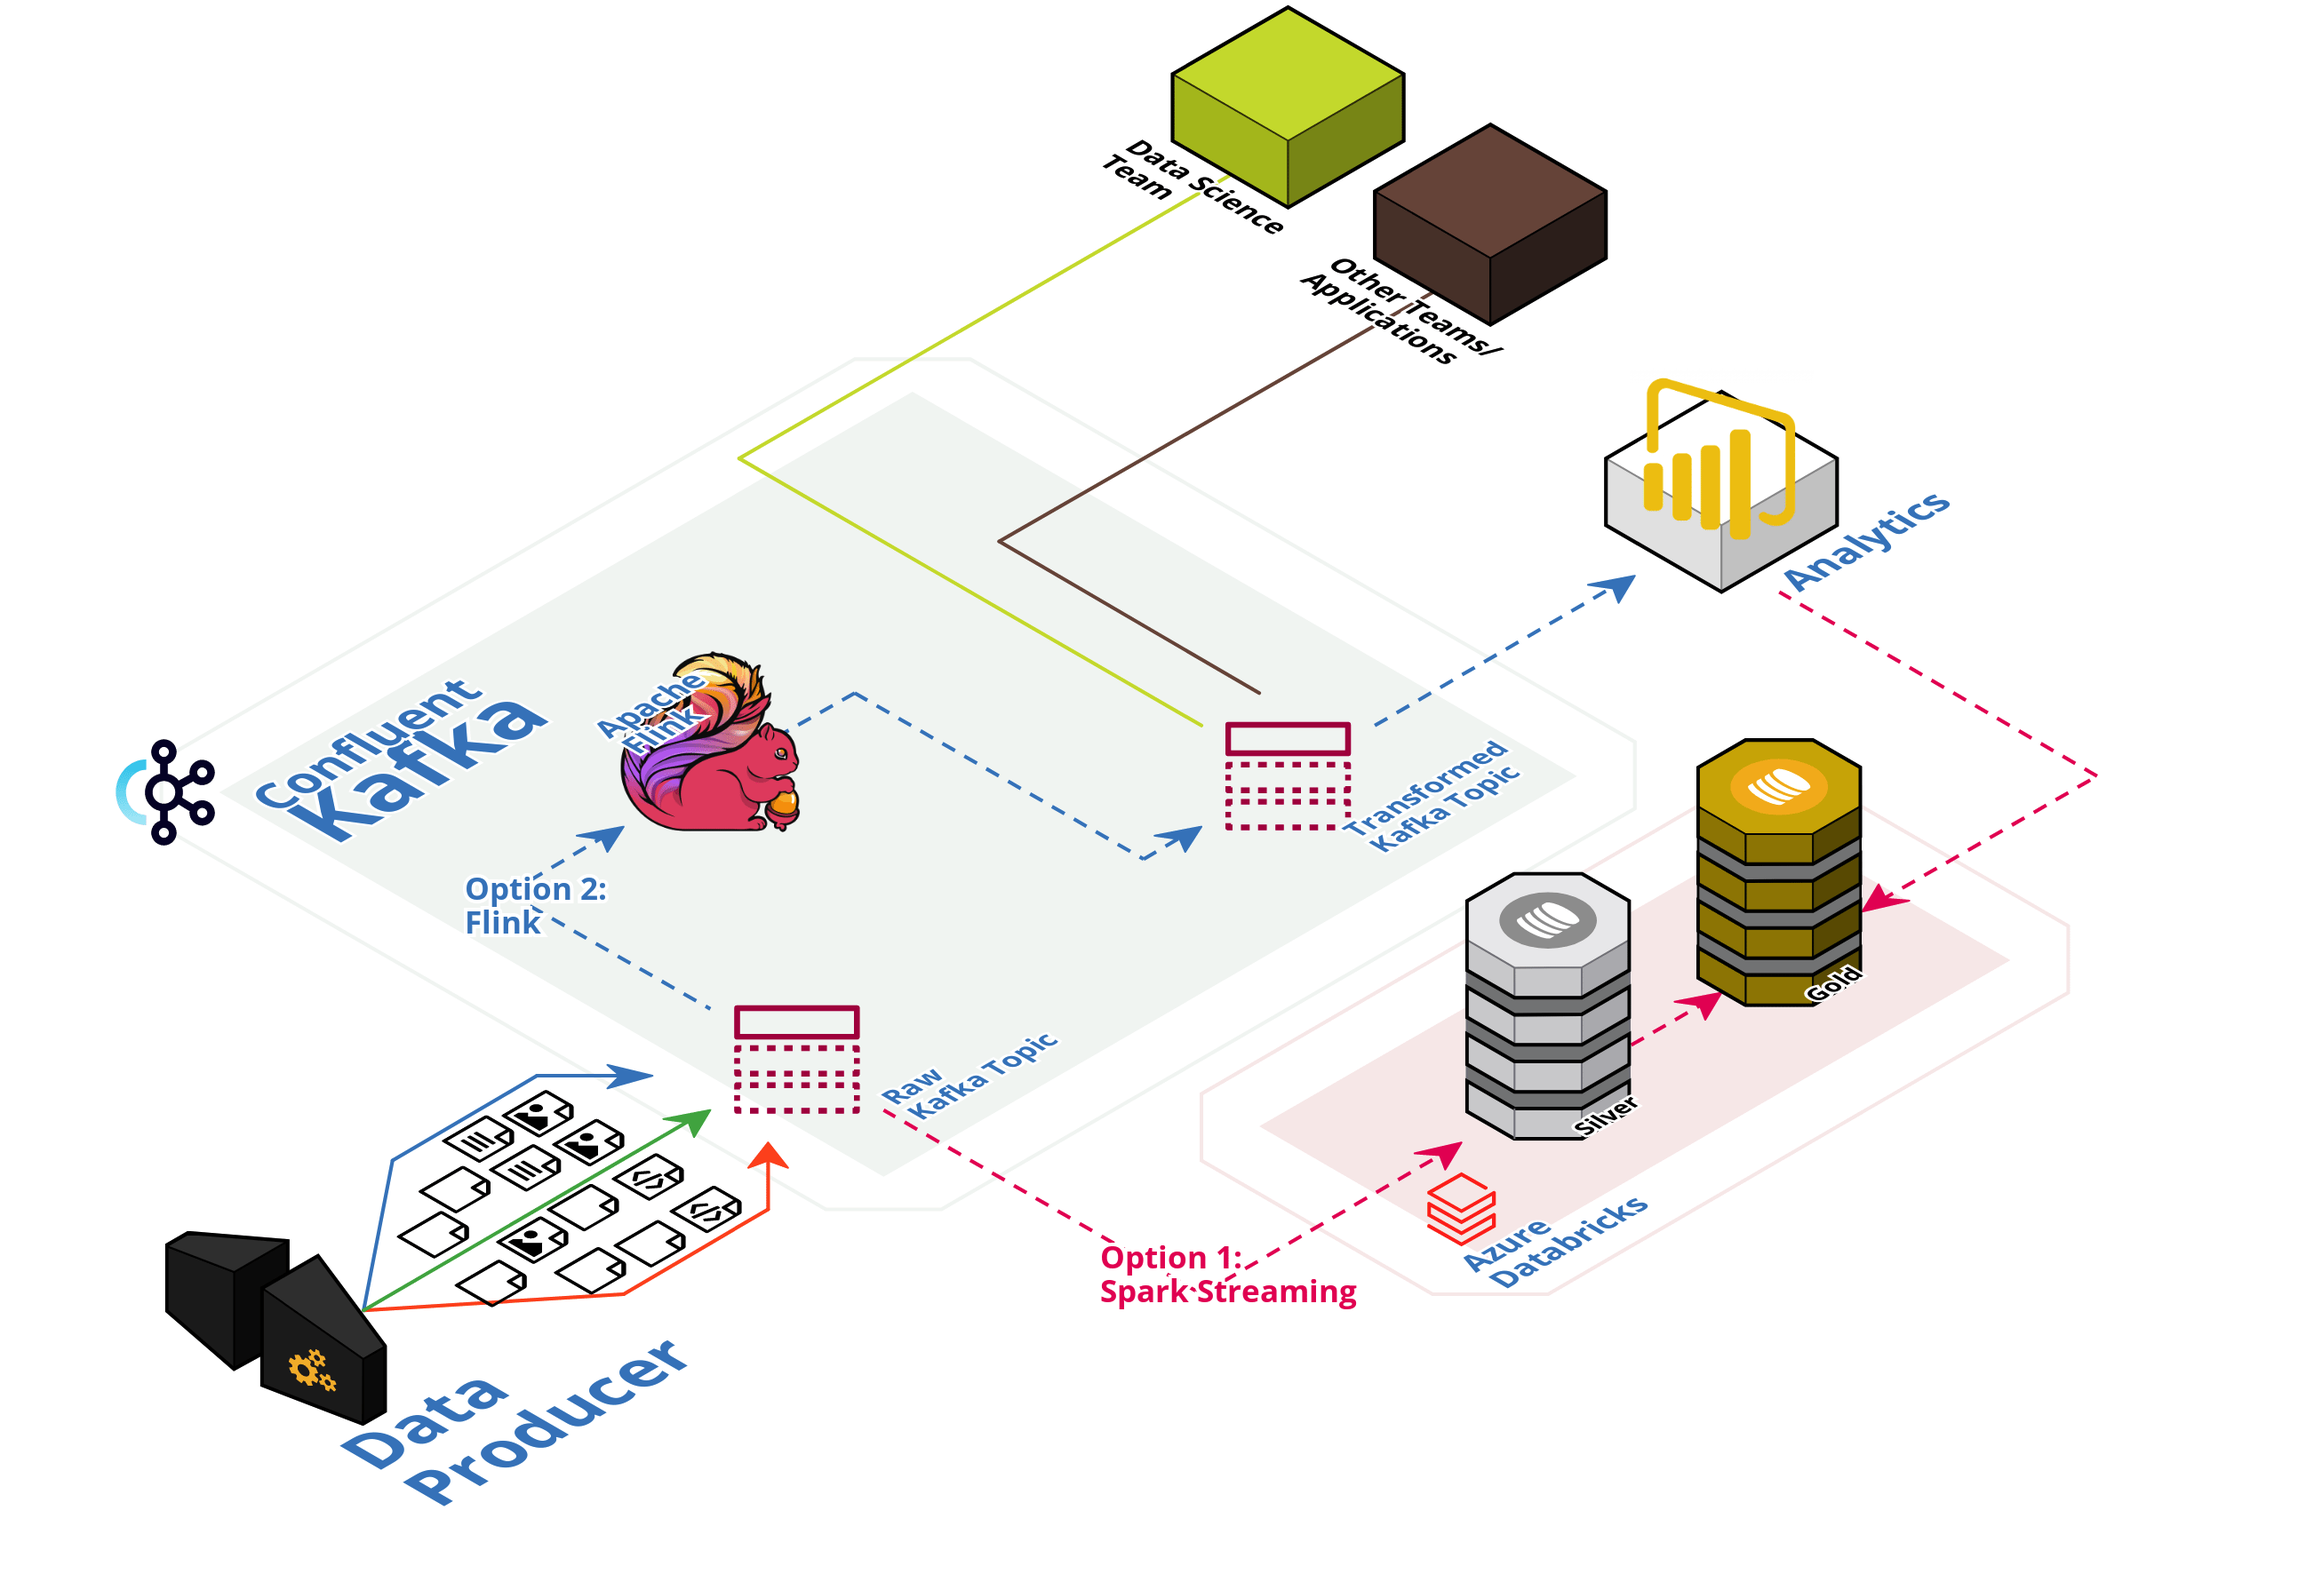
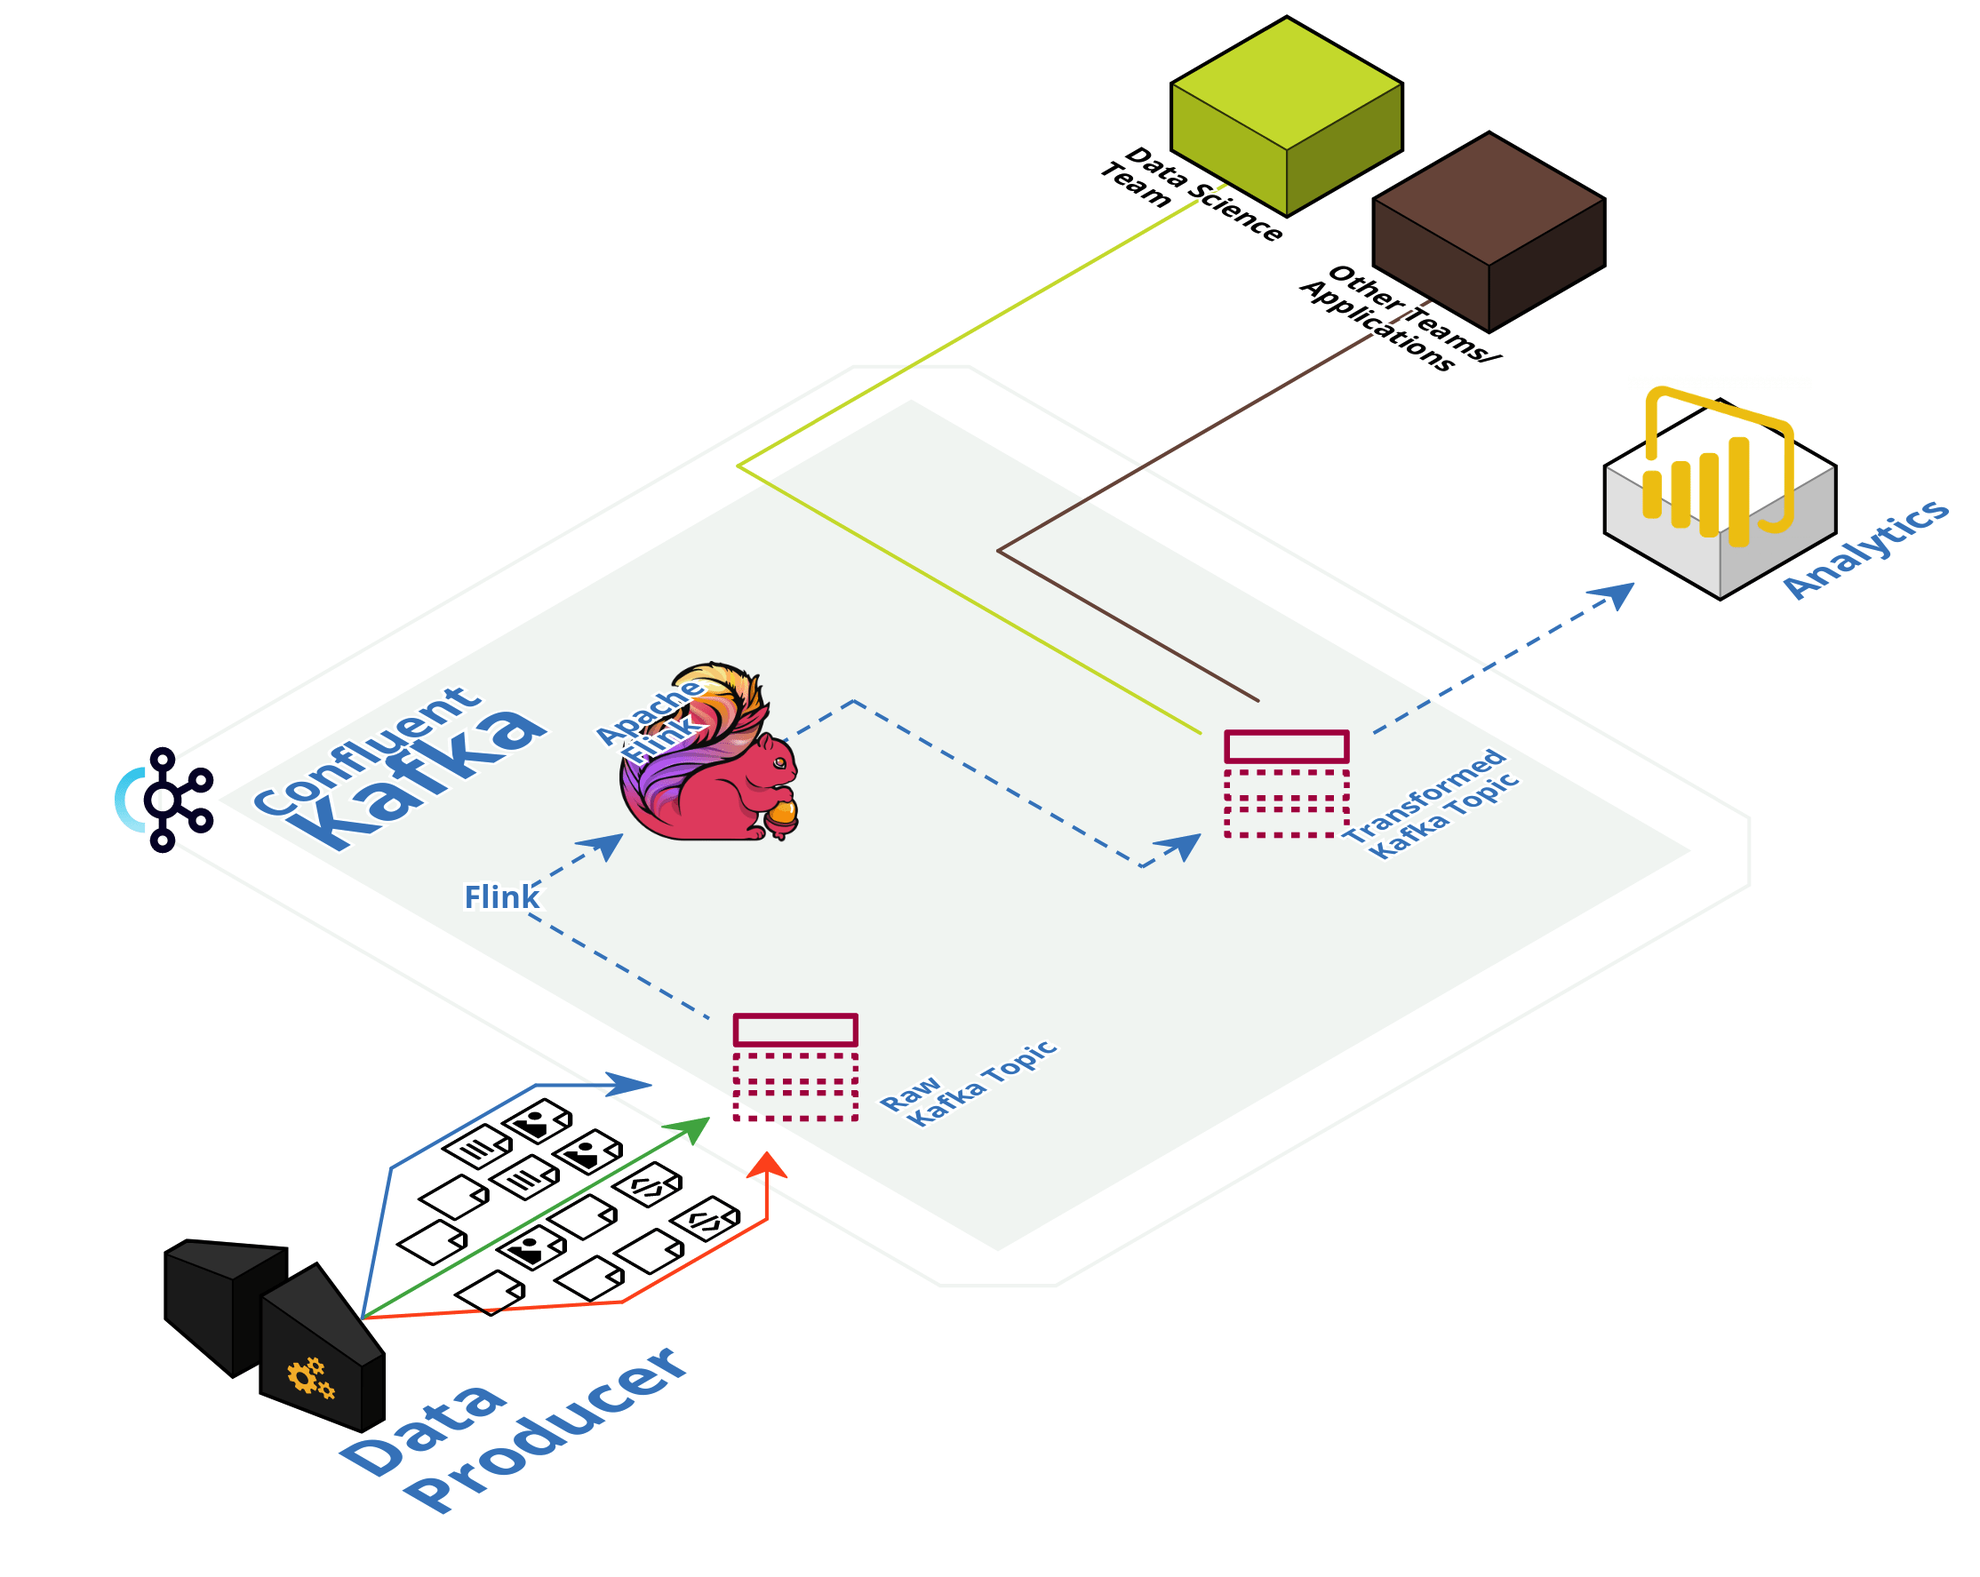
added new image

diff --git a/README.md b/README.md
@@ -30,8 +30,12 @@ This repo has been created by:
 
 
 ## Design
+The Demo will be using Flink Streaming:
 [![infrastructure](./docs/infrastructure.png)](https://app.cloudcraft.co/view/a1e84540-b924-4a33-b1c9-f8044601c945?key=3m40jn0enpfd2t90&interactive=true&embed=true)
 
+
+Another possibility can be using Spark Streaming and Databricks, the code can be found kafka_spark_streaming folder:
+[![infrastructure](./docs/infrastructure_option_2.png)](https://app.cloudcraft.co/view/a1e84540-b924-4a33-b1c9-f8044601c945?key=3m40jn0enpfd2t90&interactive=true&embed=true)
 
 ## Slides
 [![Google Slides Badge](https://img.shields.io/badge/Google%20Slides-FBBC04?logo=googleslides&logoColor=000&style=for-the-badge)](https://docs.google.com/presentation/d/1lTWvNwJgJphgH6YUYEL9AiE-nlDidsqMNJF_MiJryl4/edit?exids=71471483,71471477&pli=1#slide=id.g1ea5efd3fa5_0_3148)
